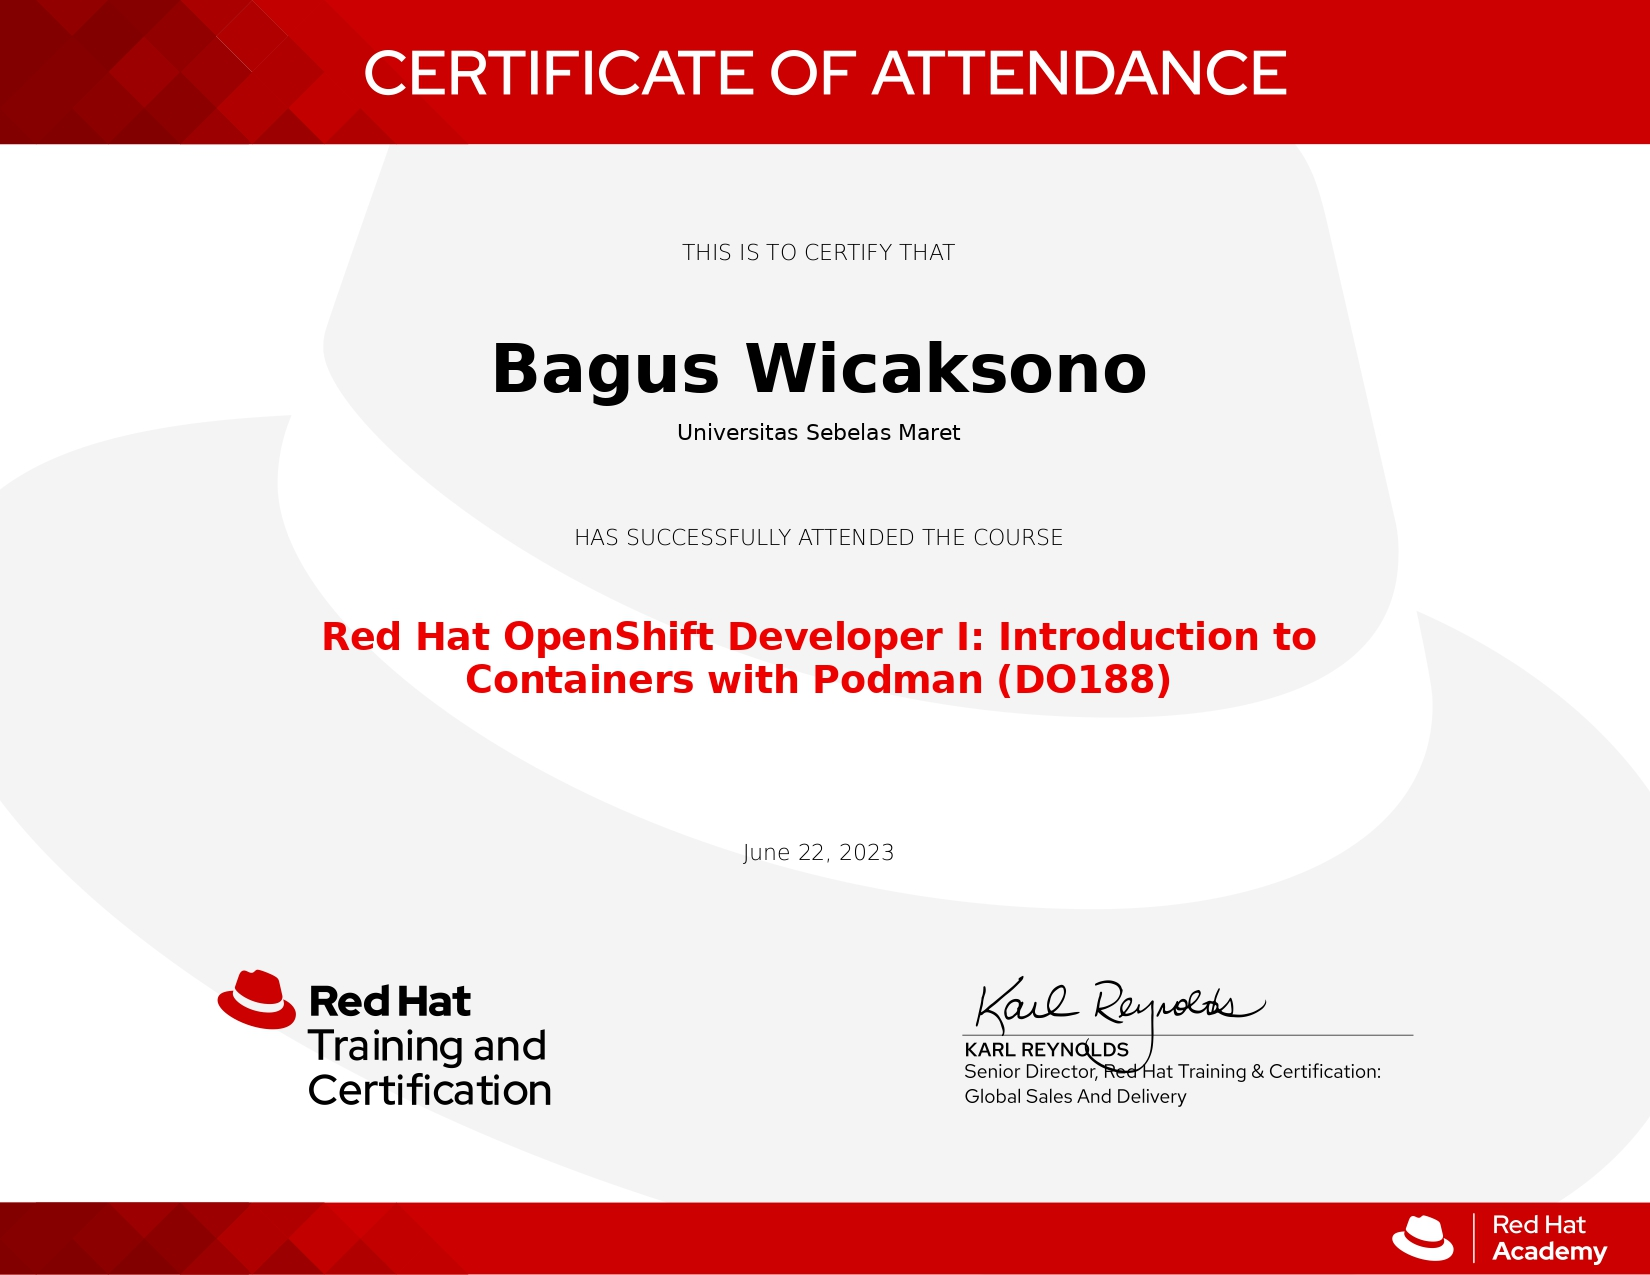
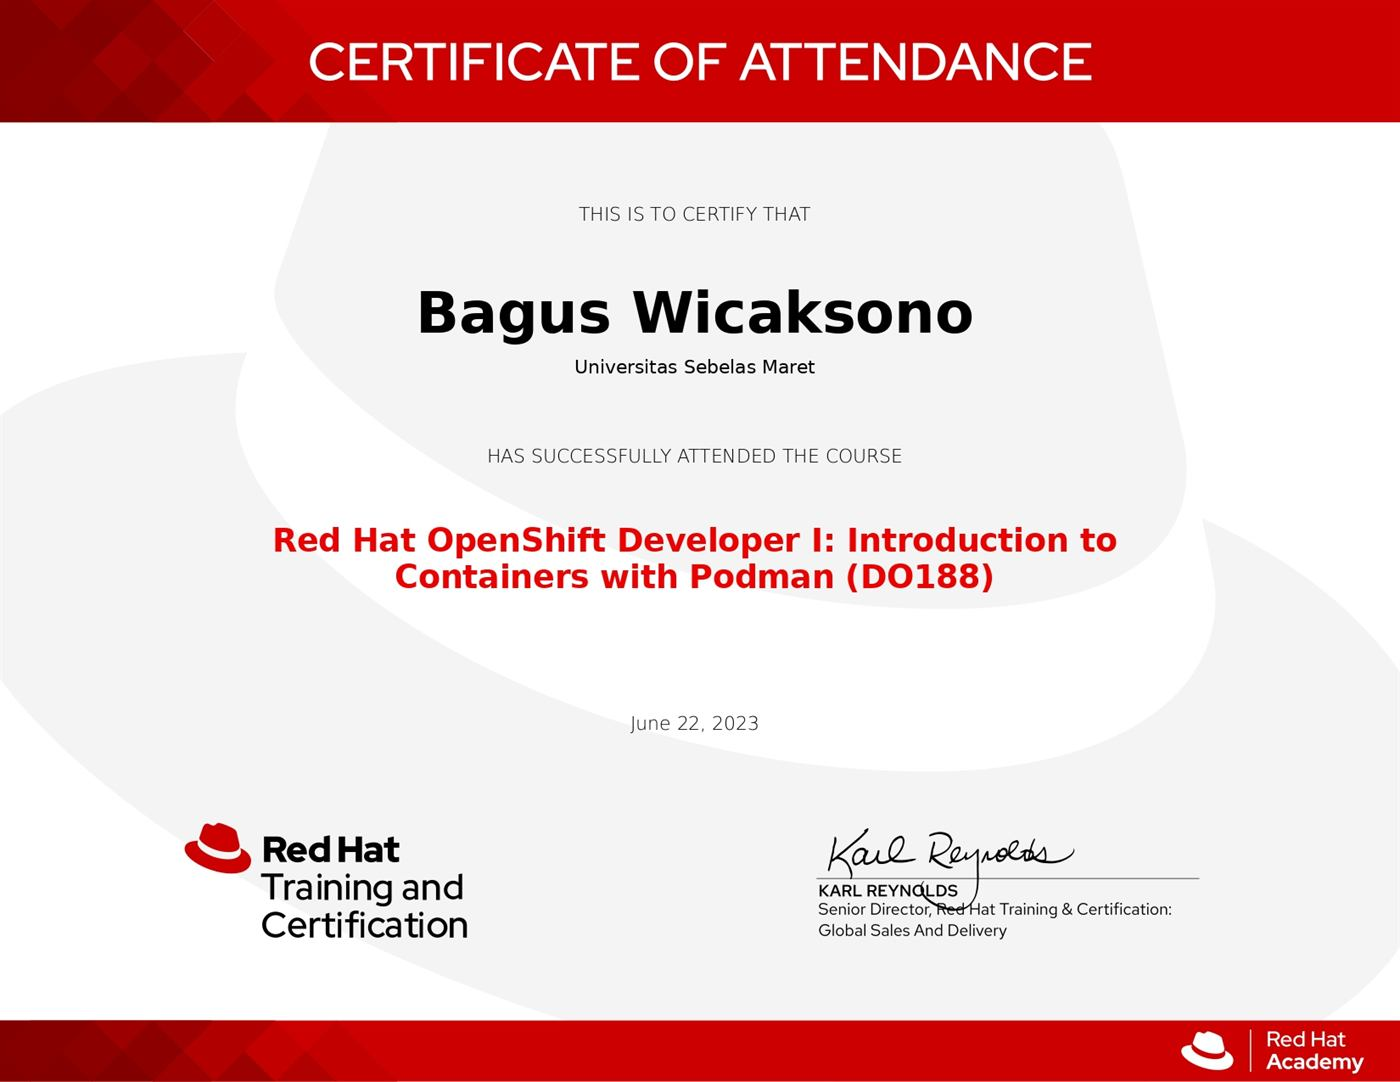
Speed up achievements image loading
The page shipped 6.5MB of full-size certificate JPEGs through plain <img>
tags, all eagerly, and each card additionally constructed a second
window.Image() just to read naturalWidth for the dialog layout.

- Downscale sources to 1400px wide and re-encode (6.5MB -> 1.9MB);
  convert the one PNG to JPEG.
- Serve them through next/image with fill + sizes, so cards request a
  384px WebP (~116KB for all 14) and only the first three load eagerly.
- Read orientation from the card image's own load event instead of a
  separate full-size fetch per card.
- Fade the image in over the existing bg-muted so it reads as a skeleton.

Also drops AlarmManager and App Widgets from the Mobile skills list.

diff --git a/components/AchievementCard.tsx b/components/AchievementCard.tsx
@@ -1,6 +1,6 @@
 "use client";
 
-import { useEffect, useState } from "react";
+import { useState } from "react";
 import { Award, BookOpen, Trophy, ArrowUpRight } from "lucide-react";
 import type { Achievement } from "@/data/profile";
 import { cn } from "@/lib/utils";
@@ -16,15 +16,18 @@ const typeIcon = {
   Competition: Trophy,
 };
 
-export function AchievementCard({ achievement }: { achievement: Achievement }) {
+export function AchievementCard({
+  achievement,
+  priority = false,
+}: {
+  achievement: Achievement;
+  /** Above-the-fold cards load eagerly; the rest stay lazy. */
+  priority?: boolean;
+}) {
   const Icon = typeIcon[achievement.type];
+  // Orientation comes from the card image once it lands, rather than a second
+  // full-size download per card just to read naturalWidth.
   const [isLandscape, setIsLandscape] = useState(false);
-
-  useEffect(() => {
-    const img = new window.Image();
-    img.src = achievement.image;
-    img.onload = () => setIsLandscape(img.naturalWidth > img.naturalHeight);
-  }, [achievement.image]);
 
   return (
     <Dialog>
@@ -34,7 +37,10 @@ export function AchievementCard({ achievement }: { achievement: Achievement }) {
             <CertImage
               achievement={achievement}
               iconSize={26}
+              sizes="(min-width: 1024px) 30vw, (min-width: 640px) 45vw, 92vw"
+              priority={priority}
               className="transition-transform duration-300 group-hover:scale-105"
+              onNaturalSize={(w, h) => setIsLandscape(w > h)}
             />
             <div className="pointer-events-none absolute inset-0 z-20 flex items-center justify-center bg-black/0 opacity-0 transition-all duration-300 group-hover:bg-black/55 group-hover:opacity-100">
               <span className="flex items-center gap-1.5 text-sm font-medium text-white">
@@ -79,7 +85,9 @@ export function AchievementCard({ achievement }: { achievement: Achievement }) {
           <CertImage
             achievement={achievement}
             iconSize={40}
-            className={isLandscape ? "h-full object-contain p-4" : "h-full"}
+            sizes="(min-width: 640px) 60vw, 94vw"
+            quality={80}
+            className={isLandscape ? "object-contain p-4" : undefined}
           />
         </div>
 

diff --git a/components/CertImage.tsx b/components/CertImage.tsx
@@ -1,6 +1,7 @@
 "use client";
 
 import { useState } from "react";
+import Image from "next/image";
 import { Award, BookOpen, Trophy } from "lucide-react";
 import type { Achievement } from "@/data/profile";
 import { cn } from "@/lib/utils";
@@ -15,12 +16,23 @@ export function CertImage({
   achievement,
   className,
   iconSize = 32,
+  /** Viewport-relative rendered width, so next/image requests a right-sized file instead of the full 1400px original. */
+  sizes = "100vw",
+  /** Set on the first few above-the-fold cards; everything else loads lazily. */
+  priority = false,
+  quality = 70,
+  onNaturalSize,
 }: {
   achievement: Achievement;
   className?: string;
   iconSize?: number;
+  sizes?: string;
+  priority?: boolean;
+  quality?: number;
+  onNaturalSize?: (width: number, height: number) => void;
 }) {
   const [error, setError] = useState(false);
+  const [loaded, setLoaded] = useState(false);
   const Icon = typeIcon[achievement.type];
 
   if (error) {
@@ -40,12 +52,25 @@ export function CertImage({
   }
 
   return (
-    // eslint-disable-next-line @next/next/no-img-element
-    <img
+    <Image
       src={achievement.image}
       alt={`${achievement.title} certificate`}
-      className={cn("h-full w-full object-cover", className)}
+      fill
+      sizes={sizes}
+      priority={priority}
+      quality={quality}
+      // The parent already paints bg-muted, so fading in reads as a skeleton filling rather than a pop.
+      className={cn(
+        "object-cover transition-opacity duration-300",
+        loaded ? "opacity-100" : "opacity-0",
+        className
+      )}
       onError={() => setError(true)}
+      onLoad={(e) => {
+        setLoaded(true);
+        const img = e.currentTarget;
+        onNaturalSize?.(img.naturalWidth, img.naturalHeight);
+      }}
     />
   );
 }

diff --git a/data/profile.ts b/data/profile.ts
@@ -198,7 +198,7 @@ export const skills: SkillCategory[] = [
   },
   {
     label: "Mobile",
-    skills: ["Android SDK", "Kotlin", "Jetpack Compose", "ML Kit OCR", "AlarmManager", "App Widgets", "Gradle", "JUnit"],
+    skills: ["Android SDK", "Kotlin", "Jetpack Compose", "ML Kit OCR", "Gradle", "JUnit"],
   },
   {
     label: "Bots & Automation",
@@ -323,7 +323,7 @@ export const achievements: Achievement[] = [
     issuer: "SoloLearn",
     type: "Course",
     category: "Backend",
-    image: "/certificates/sololearn-sql.png",
+    image: "/certificates/sololearn-sql.jpg",
   },
 ];
 

diff --git a/app/achievements/page.tsx b/app/achievements/page.tsx
@@ -79,7 +79,7 @@ export default function AchievementsPage() {
             className="h-full animate-in fade-in-0 slide-in-from-bottom-2 duration-300 ease-out"
             style={{ animationDelay: `${Math.min(i * 30, 300)}ms`, animationFillMode: "backwards" }}
           >
-            <AchievementCard achievement={a} />
+            <AchievementCard achievement={a} priority={i < 3} />
           </div>
         ))}
       </div>
